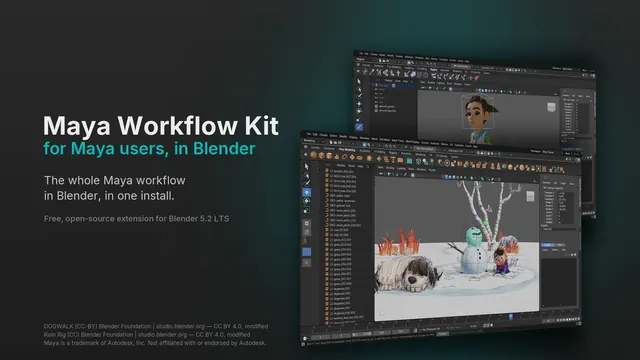
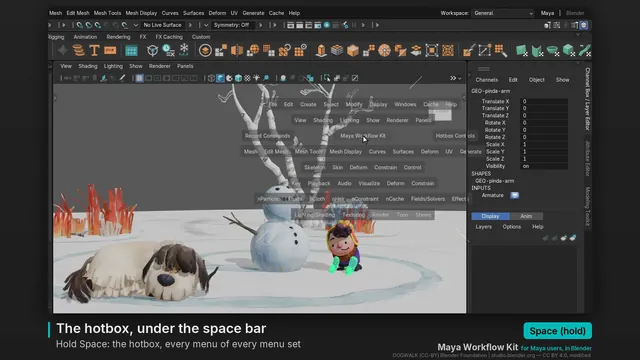
Site: what comes over by menu set, clip first on phones, tour poster from the clip, shorter setup and limits
A new section lists what the kit brings per Maya menu set and quotes the
current menu coverage; the release check now compares that figure with
the menu counter. Phones see the Maya window right after the tagline and
the paragraph after it. The tour's poster is the hotbox frame of the
trailer, the recommended settings fold into one disclosure, and the
limits section is named for what stays Blender and starts with Maya
scene files.

diff --git a/site/index.html b/site/index.html
@@ -49,9 +49,9 @@
       <span class="lockup__line">for Maya users, in Blender</span>
     </h1>
     <p class="hero__tagline">The whole Maya workflow in Blender, in one install.</p>
-    <p class="hero__lede">Other tools bring one piece over: a pivot tool, a keymap, a shelf. This rebuilds the
-      set together — hotbox and marking menus, Channel Box and Attribute Editor, menu sets, shelves and option windows —
-      on top of Blender's own tools. Installing it changes nothing until you choose Maya.</p>
+    <p class="hero__lede">Not just a keymap: the hotbox and marking menus, the Channel Box and Attribute Editor,
+      menu sets, shelves and option windows, rebuilt on top of Blender's own tools. Installing it changes nothing
+      until you choose Maya.</p>
     <div class="hero__actions">
       <a class="btn btn--press" href="https://github.com/5hyuns/maya-workflow-kit-for-blender/releases">Download the zip</a>
       <a class="btn btn--quiet" href="#tour">Watch the 30-second tour</a>
@@ -139,9 +139,78 @@
       <source src="media/trailer.mp4" type="video/mp4">
     </video>
     <figcaption>Hotbox, marking menus, Channel Box keys, Maya navigation, pivot snapping, rigging, and the one-click
-      switch back to plain Blender. No sound.<br><span class="credit">Scenes: DOGWALK, Rain, Pack Bot and Security Bot rigs
+      switch back to plain Blender. 33 seconds, no sound.<br><span class="credit">Scenes: DOGWALK, Rain, Pack Bot and Security Bot rigs
       (CC BY 4.0) Blender Foundation | studio.blender.org, modified.</span></figcaption>
   </figure>
+</section>
+
+<section class="sets" id="features" aria-labelledby="sets-title">
+  <h2 id="sets-title">What comes over, menu set by menu set</h2>
+  <p class="sets__lede">Maya's menus are there as menus: <strong>1,027 of the 1,900 main-menu items</strong> run a kit or
+    Blender command, and the other 873 stay in place, greyed, each with a note on what to use instead. Editor menu bars:
+    UV Editor 85 %, Graph Editor 82 %, Dope Sheet 78 %, Hypershade 58 %.</p>
+  <div class="optwin sets__win">
+    <p class="optwin__title"><span class="handle" aria-hidden="true"></span>Menu sets</p>
+    <ul class="sets__grid">
+      <li class="sets__col">
+        <h3><kbd>F2</kbd> Modeling</h3>
+        <ul>
+          <li>pCube1, centimetres and lambert1 by default</li>
+          <li>Freeze Transformations, Center Pivot, Delete History</li>
+          <li>Extrude, Bevel and Smart Bevel with history</li>
+          <li>Combine, Separate, Mirror, Boolean, Connect</li>
+          <li>Smooth Mesh Preview on 1 / 2 / 3</li>
+          <li>Modeling Toolkit, Smart Extrude, Make Live</li>
+        </ul>
+      </li>
+      <li class="sets__col">
+        <h3><kbd>F2</kbd> UV</h3>
+        <ul>
+          <li>Cut and Sew UV Edges, 3D Cut and Sew</li>
+          <li>Unfold, Layout, UV shell selection</li>
+          <li>UV Editor with Maya's menus and the UV Toolkit</li>
+          <li>UV projections with their option windows</li>
+        </ul>
+      </li>
+      <li class="sets__col">
+        <h3><kbd>F3</kbd> Rigging</h3>
+        <ul>
+          <li>Joint Tool, IK Handle, IK Spline</li>
+          <li>Bind Skin, Paint Skin Weights, Hammer weights</li>
+          <li>Set Driven Key, constraints, Cluster, Soft Modification</li>
+          <li>Joint pick-walk, Reroot, Preferred Angle</li>
+          <li>The HumanIK menu leads to Rigify</li>
+        </ul>
+      </li>
+      <li class="sets__col">
+        <h3><kbd>F4</kbd> Animation</h3>
+        <ul>
+          <li>S keys every channel; Shift+W / E / R key one</li>
+          <li>Time Slider with key ticks, Range Slider, K-drag scrub</li>
+          <li>Graph Editor with Maya's menus and tangent toolbar</li>
+          <li>Dope Sheet, Auto Key, Playblast</li>
+        </ul>
+      </li>
+      <li class="sets__col">
+        <h3><kbd>F5</kbd> FX <span class="sets__and">and</span> <kbd>F6</kbd> Rendering</h3>
+        <ul>
+          <li>Hypershade, Maya shader types, shading groups</li>
+          <li>Render Settings, Keep Image, light linking</li>
+          <li>Cloth, particles, rigid bodies and Mantaflow — Blender's own, in Maya's menus</li>
+        </ul>
+      </li>
+      <li class="sets__col">
+        <h3>Files <span class="sets__and">and</span> scripting</h3>
+        <ul>
+          <li>Maya projects: Set Project and the project folders</li>
+          <li>Ctrl+Alt+S increments and saves; Ctrl+R creates a reference</li>
+          <li>FBX, OBJ, Alembic and USD with cm / Y-up presets</li>
+          <li>Command Line and Script Editor with a small maya.cmds look-alike</li>
+          <li>Menus and tooltips in Japanese and Simplified Chinese too</li>
+        </ul>
+      </li>
+    </ul>
+  </div>
 </section>
 
 <section class="note" id="note" aria-labelledby="note-title">
@@ -187,23 +256,28 @@
 
 <section class="limits" id="setup" aria-labelledby="setup-title">
   <h2 id="setup-title">Recommended setup</h2>
-  <p>Optional. The kit leaves your theme and Blender preferences to you; Maya users usually like:</p>
-  <ul class="limits__list">
-    <li>A dark grey theme: <span class="path">Edit › Preferences › Get Extensions</span>, filter by Themes and install
-      one you like.</li>
-    <li>Navigation: Orbit Method Turntable, Orbit Around Selection off, Zoom to Mouse Position off, Auto Perspective on,
-      Zoom Method Dolly with a horizontal axis.</li>
-    <li>Undo Steps set to 256 (Blender's maximum) under System.</li>
-    <li>Region Overlap off under Interface › Editors, so side panels sit beside the viewport.</li>
-    <li>Only Insert Available under Animation › Keyframes, for Maya-like auto key.</li>
-  </ul>
+  <p>Optional. The kit leaves your theme and Blender preferences to you.</p>
+  <details class="setup">
+    <summary>The five settings Maya users usually change</summary>
+    <ul class="limits__list">
+      <li>A dark grey theme: <span class="path">Edit › Preferences › Get Extensions</span>, filter by Themes and install
+        one you like.</li>
+      <li>Navigation: Orbit Method Turntable, Orbit Around Selection off, Zoom to Mouse Position off, Auto Perspective on,
+        Zoom Method Dolly with a horizontal axis.</li>
+      <li>Undo Steps set to 256 (Blender's maximum) under System.</li>
+      <li>Region Overlap off under Interface › Editors, so side panels sit beside the viewport.</li>
+      <li>Only Insert Available under Animation › Keyframes, for Maya-like auto key.</li>
+    </ul>
+  </details>
 </section>
 
 <section class="limits" id="limits" aria-labelledby="limits-title">
-  <h2 id="limits-title">Where Blender's C++ draws the line</h2>
-  <p>Everything here is Python on top of Blender. Some of Maya lives deeper than an extension can reach, so these are
+  <h2 id="limits-title">What stays Blender</h2>
+  <p>Everything here is Python on top of Blender. A few things live deeper than an extension can reach, so they are
     not imitated:</p>
   <ul class="limits__list">
+    <li>Maya scene files: <code>.ma</code> and <code>.mb</code> don't open. Export FBX, OBJ, Alembic or USD from Maya;
+      the kit's Import has Maya presets (cm, Y-up).</li>
     <li>Blender is Z-up and has one pivot per object.</li>
     <li>Dragging over a field with the middle mouse to scrub its value.</li>
     <li>MEL. A Python Command Line with a small <code>maya.cmds</code> look-alike is there instead.</li>

diff --git a/site/styles.css b/site/styles.css
@@ -204,6 +204,23 @@ video.viewport__media { transform: translateY(6.43%) scale(1.1765); transform-or
 .tour__frame video { width: 100%; border-radius: 6px; border: 1px solid var(--rule); background: #000; }
 .tour__frame figcaption { margin-top: 12px; font-size: 14px; color: var(--text-muted); max-width: var(--measure); }
 
+/* ---------------------------------------------------------------- menu sets: what comes over, by discipline */
+.sets { padding: clamp(56px, 7vw, 96px) var(--pad-x) 0; border-top: 1px dotted #5a5a5a; margin-top: clamp(56px, 7vw, 96px); }
+.sets h2 { margin-bottom: 18px; }
+.sets__lede { max-width: var(--measure); margin-bottom: 28px; }
+.sets__lede strong { color: var(--text-strong); font-weight: 650; }
+.sets__grid { list-style: none; margin: 0; padding: 0; display: grid; grid-template-columns: repeat(3, minmax(0, 1fr)); gap: 1px; background: var(--rule); }
+.sets__col { background: var(--panel); padding: 18px 22px 20px; }
+.sets__col h3 { font-size: 15px; font-weight: 650; display: flex; align-items: center; gap: 8px; flex-wrap: wrap; margin-bottom: 10px; }
+.sets__col kbd {
+  font: 600 11.5px/1 "Inter", system-ui, sans-serif; color: var(--text); background: var(--base);
+  border: 1px solid var(--rule); border-radius: 3px; padding: 4px 6px 3px; letter-spacing: .02em;
+}
+.sets__and { font-weight: 400; color: var(--text-soft); font-size: 13px; }
+.sets__col ul { list-style: none; margin: 0; padding: 0; font-size: 14px; line-height: 1.45; color: var(--text); }
+.sets__col li { padding: 4px 0 4px 16px; position: relative; }
+.sets__col li::before { content: ""; position: absolute; left: 0; top: .95em; width: 8px; height: 1px; background: var(--teal); }
+
 /* ---------------------------------------------------------------- note from the maintainer */
 .note { padding: clamp(56px, 7vw, 96px) var(--pad-x) 0; }
 .note h2 { margin-bottom: 24px; }
@@ -226,6 +243,20 @@ video.viewport__media { transform: translateY(6.43%) scale(1.1765); transform-or
 
 /* ---------------------------------------------------------------- limits */
 .limits > p { max-width: var(--measure); }
+.setup { max-width: var(--measure); margin-top: 18px; }
+.setup summary {
+  cursor: pointer; list-style: none; padding: 12px 16px 12px 40px; position: relative; border: 1px solid var(--rule);
+  border-radius: 4px; background: #3a3a3a; color: var(--text-strong); font-weight: 600;
+}
+.setup summary:hover { background: #424242; }
+.setup summary::-webkit-details-marker { display: none; }
+.setup summary::before {
+  content: ""; position: absolute; left: 16px; top: 50%; margin-top: -5px;
+  border-style: solid; border-width: 5px 0 5px 8px; border-color: transparent transparent transparent var(--teal);
+  transition: transform .3s var(--ease);
+}
+.setup[open] summary::before { transform: rotate(90deg); }
+.setup .limits__list { margin: 6px 0 0; }
 .limits__list { margin: 18px 0 22px; padding: 0; list-style: none; max-width: var(--measure); }
 .limits__list li { padding: 12px 0 12px 22px; border-top: 1px solid var(--rule); position: relative; color: var(--text-strong); }
 .limits__list li::before { content: ""; position: absolute; left: 2px; top: 1.15em; width: 9px; height: 1px; background: var(--teal); }
@@ -265,6 +296,7 @@ video.viewport__media { transform: translateY(6.43%) scale(1.1765); transform-or
 @media (max-width: 1100px) {
   .hero { grid-template-columns: 1fr; min-height: 0; }
   .hero__copy { max-width: 40rem; }
+  .sets__grid { grid-template-columns: repeat(2, minmax(0, 1fr)); }
   .choose { grid-template-columns: 1fr; }
   .switcher__toggle { align-self: flex-start; }
   .switcher__note { text-align: left; }
@@ -291,6 +323,12 @@ video.viewport__media { transform: translateY(6.43%) scale(1.1765); transform-or
   .menubar nav { min-width: 0; flex: 1 1 auto; overflow-x: auto; scrollbar-width: none; }
   .menubar__menu a { padding: 6px 8px; white-space: nowrap; }
   .menubar__repo { padding: 5px 8px; }
+  /* phones see the clip before the paragraph: name, tagline, the Maya window, then the rest of the copy */
+  .hero { display: flex; flex-direction: column; gap: 22px; }
+  .hero__copy { display: contents; }
+  .hero > .lockup { order: 1; } .hero__tagline { order: 2; } .maya { order: 3; margin-top: 6px; }
+  .hero__lede { order: 4; } .hero__actions { order: 5; } .hero__meta { order: 6; }
+  .sets__grid { grid-template-columns: 1fr; }
   .shelf { flex: 1 1 auto; flex-wrap: wrap; overflow: visible; }   /* six tabs in two rows, nothing hidden */
   .shelf__tab { flex: 1 1 auto; text-align: center; border-bottom: 1px solid #333; padding: 10px 8px 9px; font-size: 12px; }
   .steps { grid-template-columns: 1fr; }

diff --git a/tools/release_check.py b/tools/release_check.py
@@ -21,6 +21,7 @@
 import argparse
 import json
 import os
+import re
 import shutil
 import subprocess
 import sys
@@ -202,6 +203,15 @@ def main(argv=None):
     stamped = f">v{version}<" in (ROOT / "site" / "index.html").read_text(encoding="utf-8")
     print("PASS" if stamped else "FAIL", f"site/index.html names the current version v{version}")
     ok &= stamped
+    # ... and the menu coverage it quotes is the one tools/menu_count.py counts today
+    count = subprocess.run([sys.executable, str(ROOT / "tools" / "menu_count.py")], capture_output=True, text=True,
+                           stdin=subprocess.DEVNULL).stdout
+    m = re.search(r"^total\s+leaves\s+(\d+)\s+working\s+(\d+)", count, re.M)
+    quoted = bool(m) and f"{int(m.group(2)):,} of the {int(m.group(1)):,} main-menu items" in \
+        (ROOT / "site" / "index.html").read_text(encoding="utf-8")
+    print("PASS" if quoted else "FAIL", "site/index.html quotes the current menu coverage"
+          + (f" ({m.group(2)} of {m.group(1)})" if m else " (menu_count.py gave no total)"))
+    ok &= quoted
 
     if args.no_shots:
         return 0 if ok else 1

diff --git a/tools/site/make_media.py b/tools/site/make_media.py
@@ -90,7 +90,7 @@ def main():
     src = MK / "clips" / f"{TRAILER}.mp4"
     if wanted("webm", "trailer"): webm(src, OUT / "trailer.webm", 3_000_000, 34)
     if wanted("mp4", "trailer"): mp4(src, OUT / "trailer.mp4", 4_000_000)
-    if wanted("posters", "trailer"): poster(src, "trailer", 0)
+    if wanted("posters", "trailer"): poster(src, "trailer", 3.6)   # the hotbox open over the scene, not the title card
     for n in RAW:
         if wanted("stills", n): still(n)
     if wanted("stills", "og"):
